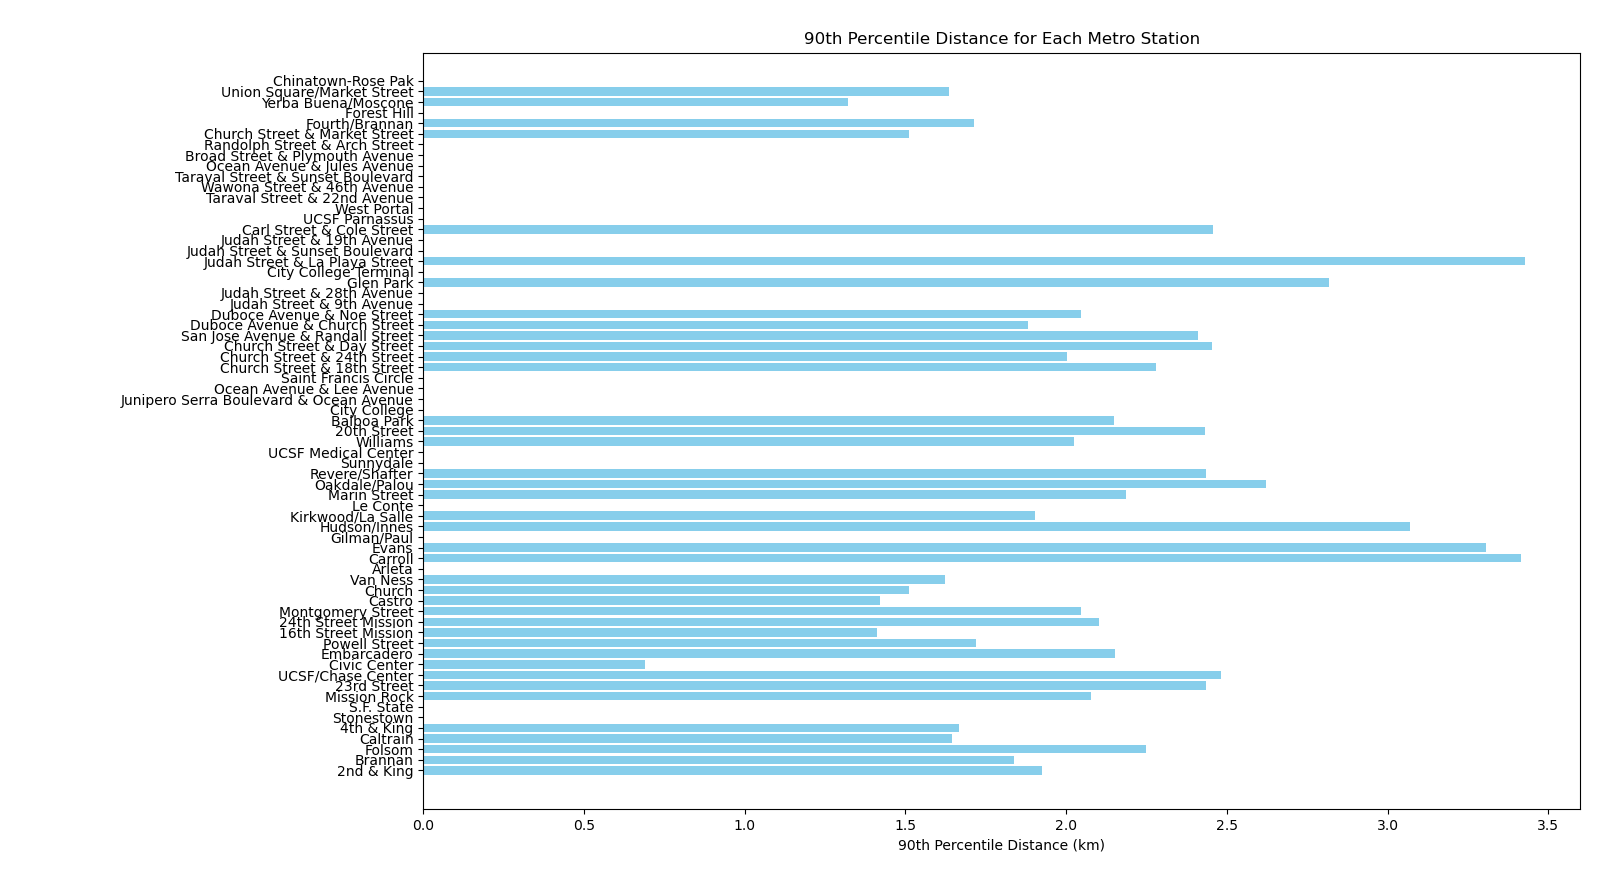
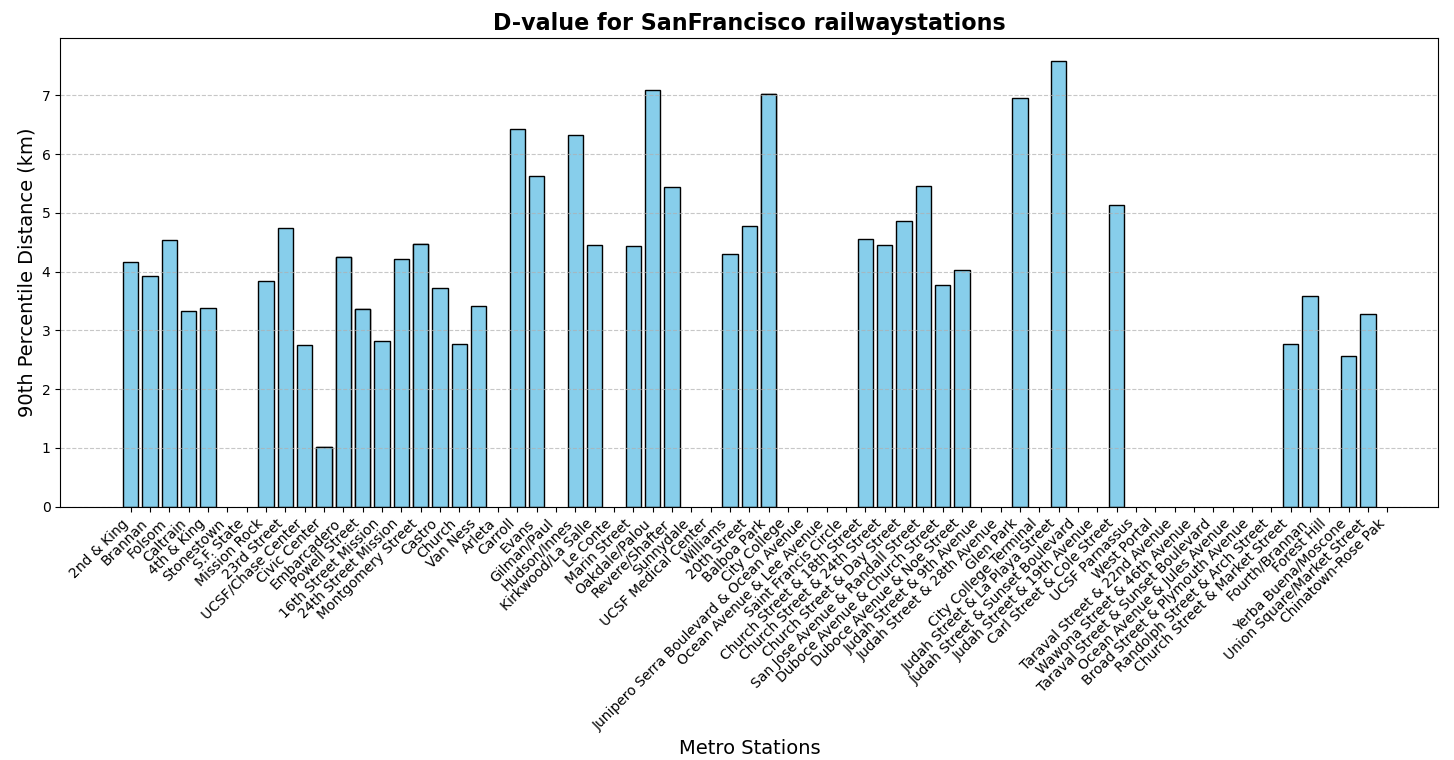
new

diff --git a/code/SanFrancisco/SanFrancisco_Dvalue.py b/code/SanFrancisco/SanFrancisco_Dvalue.py
@@ -97,20 +97,15 @@ station_names = [result['station_name'] for result in results]
 percentile_90_distances = [result['percentile_90_distance'] for result in results]
 
 plt.figure(figsize=(14, 8))
-bars = plt.barh(station_names, percentile_90_distances, color='skyblue', edgecolor='black')
+bars = plt.bar(station_names, percentile_90_distances, color='skyblue', edgecolor='black')
 
-# Add labels to each bar
-for bar in bars:
-    plt.text(bar.get_width(), bar.get_y() + bar.get_height()/2, f'{bar.get_width():.2f} km', 
-             va='center', ha='left', fontsize=10, color='black')
+plt.ylabel('90th Percentile Distance (km)', fontsize=14)
+plt.xlabel('Metro Stations', fontsize=14)
+plt.title('D-value for SanFrancisco railwaystations', fontsize=16, fontweight='bold')
+plt.grid(axis='y', linestyle='--', alpha=0.7)
 
-plt.xlabel('90th Percentile Distance (km)', fontsize=14)
-plt.ylabel('Metro Stations', fontsize=14)
-plt.title('90th Percentile Distance for Each Metro Station', fontsize=16, fontweight='bold')
-plt.grid(axis='x', linestyle='--', alpha=0.7)
-
-# Adjust y-axis to avoid overlapping labels
-plt.yticks(fontsize=10, rotation=45, ha='right')
+# Adjust x-axis to avoid overlapping labels
+plt.xticks(fontsize=10, rotation=45, ha='right')
 
 plt.tight_layout()
 plt.show()

diff --git a/code/Shanghai/Shanghai_Dvalue.py b/code/Shanghai/Shanghai_Dvalue.py
@@ -98,10 +98,14 @@ station_names = [result['station_name'] for result in results]
 percentile_90_distances = [result['percentile_90_distance'] for result in results]
 
 plt.figure(figsize=(12, 8))
-plt.bar(station_names, percentile_90_distances, color='skyblue')
+plt.bar(range(1, len(station_names) + 1), percentile_90_distances, color='skyblue')
 plt.ylabel('90th Percentile Distance (km)')
-plt.xlabel('Metro Station')
-plt.title('90th Percentile Distance for Each Metro Station')
-plt.xticks(rotation=45, ha='right')
+plt.xlabel('Metro Station Index')
+plt.title('D_value for Shanghai railwaystation')
+
+# Reduce the number of x-ticks for better readability
+step = max(1, len(station_names) // 10)
+plt.xticks(range(1, len(station_names) + 1, step), range(1, len(station_names) + 1, step), rotation=45, ha='right')
+
 plt.tight_layout()
 plt.show()
